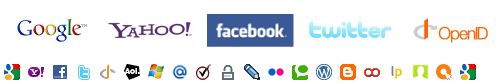
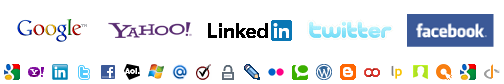
fix Verisign and add LinkedIn

diff --git a/js/openid-en.js b/js/openid-en.js
@@ -9,7 +9,6 @@ var providers_large = {
 	google : {
 		name : 'Google',
 		scheme : 'google_oauth2',
-		// url : 'https://www.google.com/accounts/o8/id'
 		url : null
 	},
 	yahoo : {
@@ -17,22 +16,19 @@ var providers_large = {
 		scheme : 'yahoo',
 		url : 'http://me.yahoo.com/'
 	},
-	facebook : {
-		name : 'Facebook',
-		scheme : 'facebook',
-		// label : 'Enter your Facebook profile.',
+	linkedin : {
+		name : 'LinkedIn',
+		scheme : 'linkedin',
 		url : null
 	},
 	twitter : {
 		name : 'Twitter',
 		scheme : 'twitter',
-		// label : 'Enter your Twitter account.',
 		url : null
 	},
-	openid : {
-		name : 'OpenID',
-		scheme : 'openid',
-		label : 'Enter your OpenID.',
+	facebook : {
+		name : 'Facebook',
+		scheme : 'facebook',
 		url : null
 	}
 };
@@ -150,10 +146,16 @@ var providers_small = {
         */
 	google_profile : {
 		name : 'Google Profile',
-		scheme : 'openid',
+		scheme : 'google', //-- google_hybrid
 		label : 'Enter your Google Profile username',
 		url : 'http://www.google.com/profiles/{username}'
-	}
+	},
+	openid : {
+		name : 'OpenID',
+		scheme : 'openid',
+		label : 'Enter your OpenID.',
+		url : null
+	},
 
 };
 
